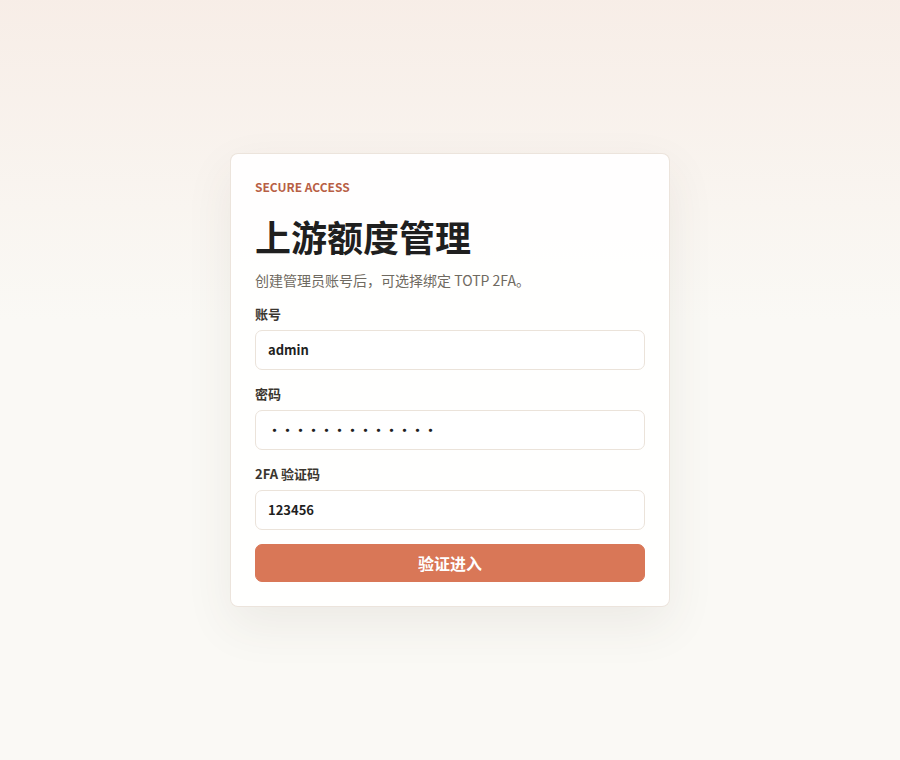
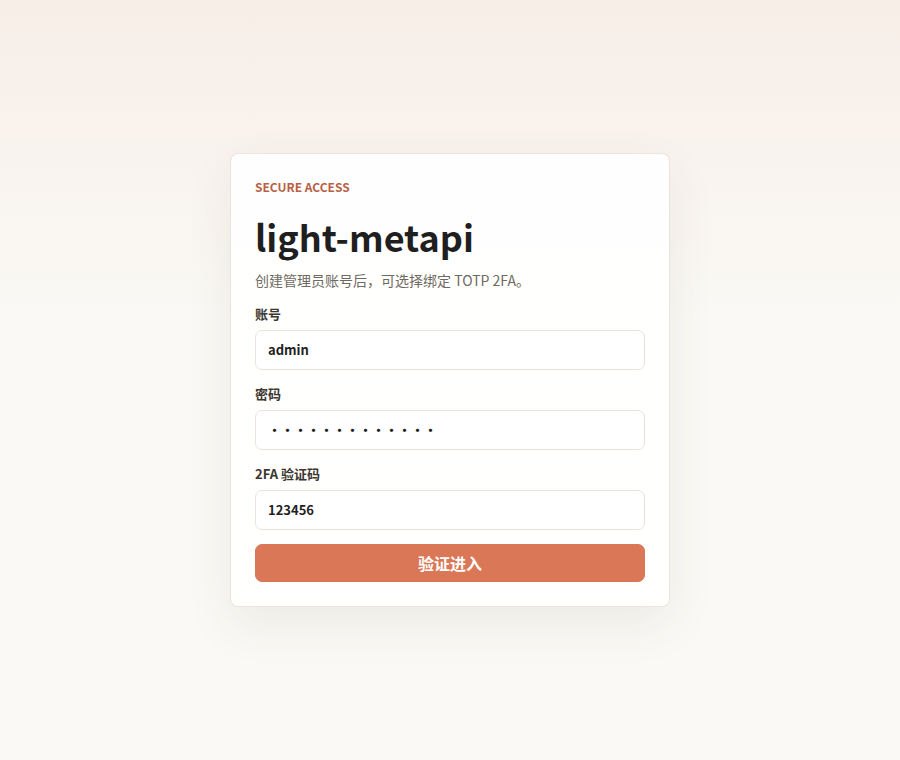
Rename project to light-metapi

Changed region(s): [[0.28, 0.2724, 0.5289, 0.3632]]

diff --git a/static/index.html b/static/index.html
@@ -3,14 +3,14 @@
   <head>
     <meta charset="utf-8" />
     <meta name="viewport" content="width=device-width, initial-scale=1" />
-    <title>上游余额监控</title>
+    <title>light-metapi</title>
     <link rel="stylesheet" href="styles.css" />
   </head>
   <body>
     <section id="loginView" class="login-view">
       <form id="loginForm" class="login-card">
         <p class="eyebrow">Secure Access</p>
-        <h1 id="loginTitle">上游额度管理</h1>
+        <h1 id="loginTitle">light-metapi</h1>
         <p id="loginCopy" class="login-copy">首次打开请创建管理员账号。</p>
         <label>
           <span>账号</span>
@@ -31,8 +31,8 @@
     <div class="app-shell hidden">
       <header class="topbar">
         <div>
-          <p class="eyebrow">Upstream Balance</p>
-          <h1>上游额度管理</h1>
+          <p class="eyebrow">light-metapi</p>
+          <h1>light-metapi</h1>
         </div>
         <div class="toolbar">
           <span id="userBadge" class="pill">已登录</span>

diff --git a/static/app.js b/static/app.js
@@ -74,7 +74,7 @@ function renderAuth() {
   const form = el("loginForm");
 
   setAuthed(authed);
-  el("loginTitle").textContent = needsSetup ? "创建管理员账号" : "上游额度管理";
+  el("loginTitle").textContent = "light-metapi";
   el("loginCopy").textContent = needsSetup ? "首次打开请创建管理员账号，进入后可选择绑定 2FA。" : "输入管理员账号密码；已绑定 2FA 时填写验证码。";
   el("loginSubmit").textContent = needsSetup ? "创建并进入" : "登录进入";
   el("totpLoginField").classList.toggle("hidden", needsSetup);

diff --git a/app.py b/app.py
@@ -367,8 +367,8 @@ def verify_totp(secret, code, window=1):
 
 
 def totp_uri(username, secret):
-    label = quote(f"Upstream Balance:{username}")
-    issuer = quote("Upstream Balance")
+    label = quote(f"light-metapi:{username}")
+    issuer = quote("light-metapi")
     return f"otpauth://totp/{label}?secret={normalize_totp_secret(secret)}&issuer={issuer}&digits=6&period=30"
 
 
@@ -1303,7 +1303,7 @@ def test_wecom():
     webhook = decrypt(webhook_enc)
     payload = {
         "msgtype": "text",
-        "text": {"content": f"上游余额监控测试消息\n时间: {datetime.now().strftime('%Y-%m-%d %H:%M:%S')}"},
+        "text": {"content": f"light-metapi 测试消息\n时间: {datetime.now().strftime('%Y-%m-%d %H:%M:%S')}"},
     }
     resp = requests.post(webhook, json=payload, timeout=REQUEST_TIMEOUT)
     if resp.status_code >= 400:

diff --git a/CITATION.md b/CITATION.md
@@ -1,21 +1,21 @@
 # Citation
 
-If Upstream Balance Monitor helps your relay operations or research, cite the project with the GitHub repository URL.
+If light-metapi helps your relay operations or research, cite the project with the GitHub repository URL.
 
 ## Markdown
 
 ```markdown
-Upstream Balance Monitor contributors. Upstream Balance Monitor. GitHub, 2026. https://github.com/Chenzr888/upstream-balance
+light-metapi contributors. light-metapi. GitHub, 2026. https://github.com/Chenzr888/light-metapi
 ```
 
 ## BibTeX
 
 ```bibtex
-@software{upstream_balance_monitor_2026,
-  title = {Upstream Balance Monitor},
-  author = {{Upstream Balance Monitor contributors}},
+@software{light_metapi_2026,
+  title = {light-metapi},
+  author = {{light-metapi contributors}},
   year = {2026},
-  url = {https://github.com/Chenzr888/upstream-balance},
+  url = {https://github.com/Chenzr888/light-metapi},
   note = {Lightweight balance monitoring for New API and Sub2API upstream relay channels}
 }
 ```

diff --git a/README.md b/README.md
@@ -1,6 +1,6 @@
-# Upstream Balance Monitor
+# light-metapi
 
-Lightweight balance monitoring for upstream AI relay channels. It currently supports New API and Sub2API, stores channel access tokens after login validation, tracks recharge records from upstream logs, and sends WeCom alerts when balances are low.
+Lightweight upstream balance monitoring for AI relay operators. light-metapi currently supports New API and Sub2API, stores channel access tokens after login validation, tracks recharge records from upstream logs, and sends WeCom alerts when balances are low.
 
 [中文文档](README.zh-CN.md) | [Citation](CITATION.md)
 

diff --git a/README.zh-CN.md b/README.zh-CN.md
@@ -1,6 +1,6 @@
-# Upstream Balance Monitor
+# light-metapi
 
-轻量上游余额监控工具，当前支持 New API 和 Sub2API。它可以统一维护不同上游渠道的余额、充值记录和企业微信告警，适合 AI API 中转业务做低成本自动巡检。
+light-metapi 是一个轻量上游余额监控工具，当前支持 New API 和 Sub2API。它可以统一维护不同上游渠道的余额、充值记录和企业微信告警，适合 AI API 中转业务做低成本自动巡检。
 
 [English README](README.md) | [引用说明](CITATION.md)
 
